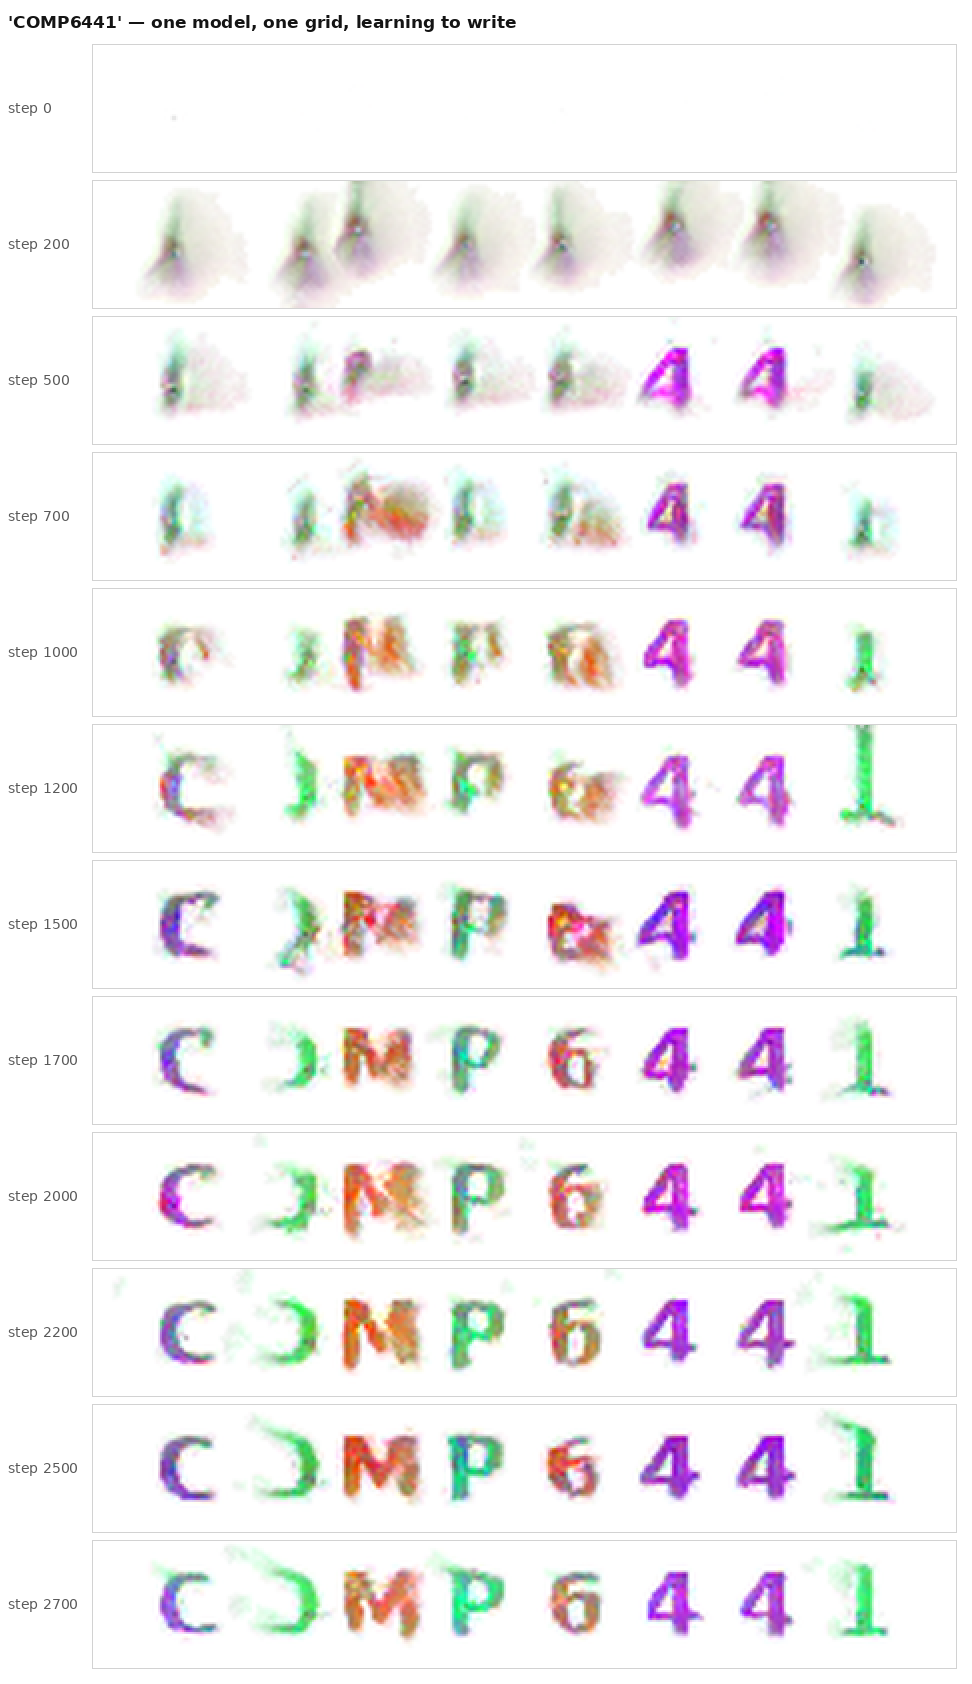
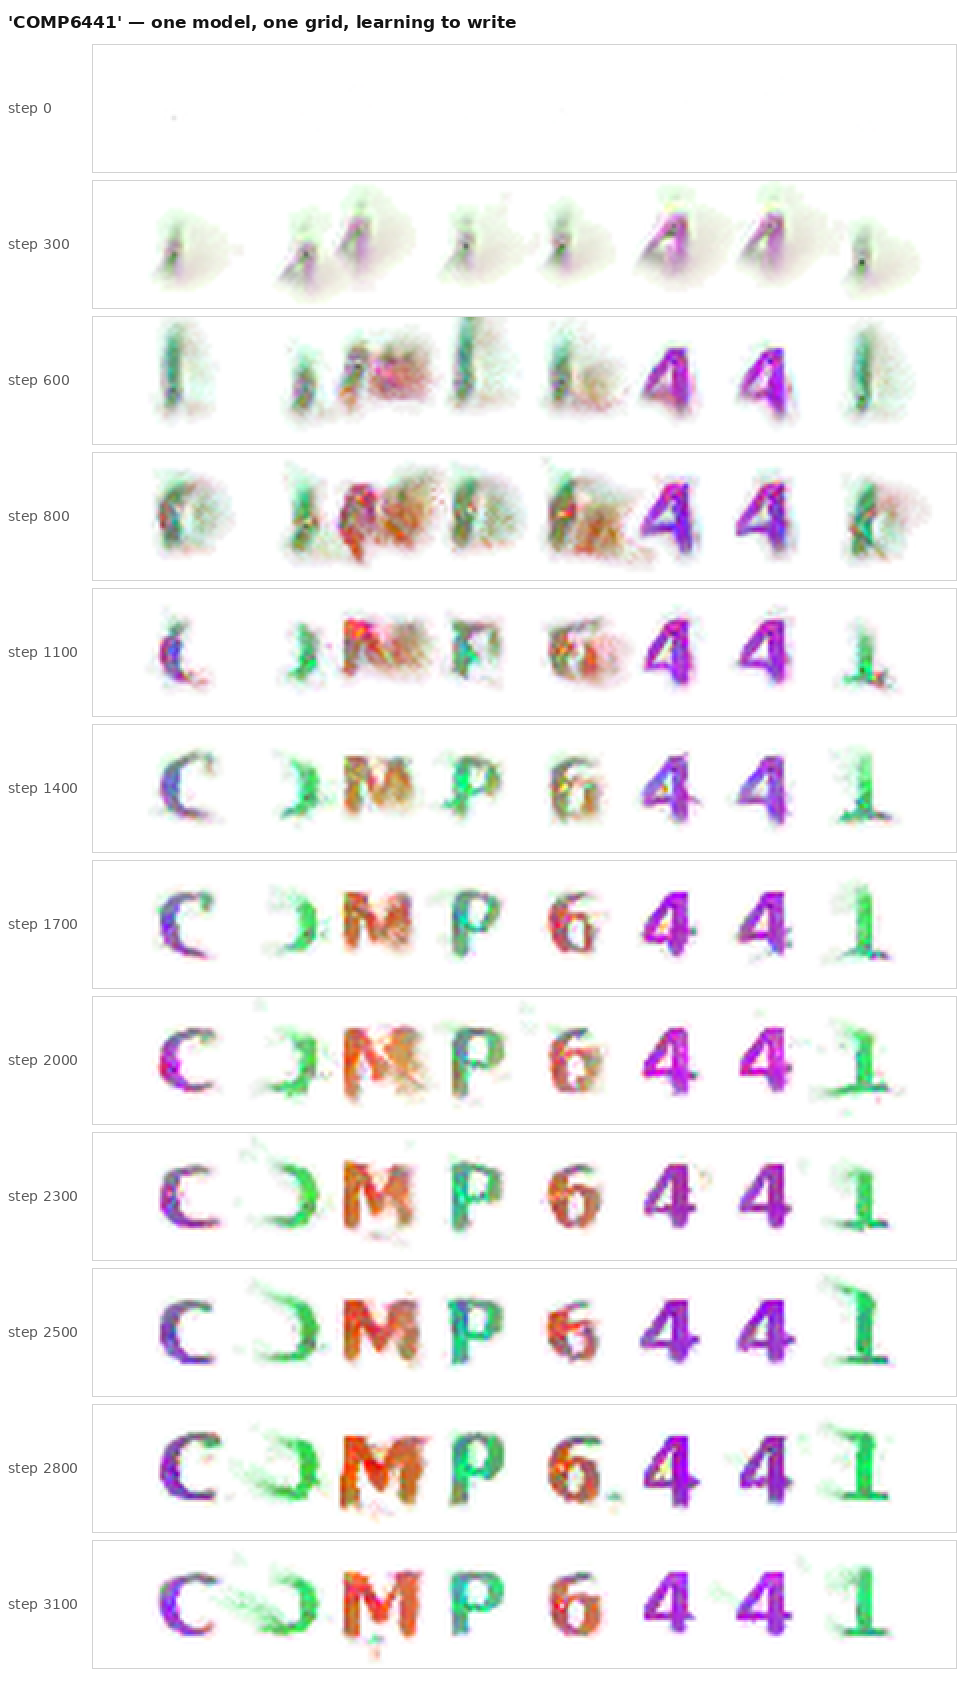
training progress: COMP6441 @ step 3100
Claude-Session: https://claude.ai/code/session_01USN6buEBYoEF7qh9QWEjHQ

diff --git a/docs/index.html b/docs/index.html
@@ -34,9 +34,9 @@
 <div class="figure-column" id="hero">
   <figure id="hero-figure">
     <div class="hero-input-row">
-      <input id="hero-text" type="text" value="GROW" maxlength="16"
+      <input id="hero-text" type="text" value="COMP6441" maxlength="16"
              autocomplete="off" autocapitalize="characters" spellcheck="false"
-             aria-label="Text to grow (A–Z and space)">
+             aria-label="Text to grow (A–Z, 0–9 and space)">
     </div>
     <p class="hero-hint" id="hero-hint" aria-live="polite"></p>
     <div id="letter-row" aria-label="Growing letters"></div>
@@ -56,7 +56,7 @@
       </span>
     </div>
     <figcaption>
-      <b>Type something</b> (A&ndash;Z and space), then interfere:
+      <b>Type something</b> (A&ndash;Z, 0&ndash;9 and space), then interfere:
       <b>click or drag</b> on a letter to carve a hole in it and watch the
       cells regrow what was lost. <b>Double-click</b> a letter to restart it
       from a single seed. Every canvas is a live 32&times;32 cellular
@@ -81,7 +81,7 @@
       <b>One network, one grid.</b> Unlike the demo above, where every letter
       is its own automaton on its own canvas, everything here is grown by a
       <em>single</em> learned rule on one shared grid. Each seed cell starts
-      with a different 5-bit letter code written into its hidden channels,
+      with a different 6-bit character code written into its hidden channels,
       and the same network decodes that code and unfolds the right glyph
       from it. Where glyphs meet, the letters must negotiate their
       boundaries with one another &mdash; there are no canvas walls to keep
@@ -101,9 +101,10 @@
     entire network was trained for nothing else. The word models drop that
     crutch: one network serves every letter in the word, so identity has to
     live somewhere other than the weights &mdash; and it lives in the seed.
-    Five hidden channels of each starting cell hold a 5-bit code, and that
+    Six hidden channels of each starting cell hold a 6-bit code &mdash; enough
+    to name any of the 36 characters, letters and digits alike &mdash; and that
     is the <em>only</em> difference between a seed destined to become a
-    <em>G</em> and one destined to become an <em>O</em>: five numbers in the
+    <em>C</em> and one destined to become a <em>6</em>: six numbers in the
     initial state. The update rule is the same everywhere on the grid, at
     every step.
   </p>

diff --git a/docs/main.js b/docs/main.js
@@ -94,7 +94,7 @@ const loadWordWeights = (text) =>
  * ------------------------------------------------------------------ */
 
 function sanitize(text) {
-  return text.toUpperCase().replace(/[^A-Z ]/g, '').slice(0, MAX_LEN);
+  return text.toUpperCase().replace(/[^A-Z0-9 ]/g, '').slice(0, MAX_LEN);
 }
 
 function makeGap() {
@@ -446,7 +446,11 @@ function buildWordFigure() {
   }
   buildWordFigure.setActivePill = setActivePill;
 
-  selectWord(availableWords[0]);
+  // Show the most impressive model first: the longest string one network has
+  // learned to grow (COMP6441 over CO), not whatever sorts first.
+  const headline = availableWords.reduce(
+    (best, t) => (t.length > best.length ? t : best), availableWords[0]);
+  selectWord(headline);
 }
 
 async function selectWord(text) {